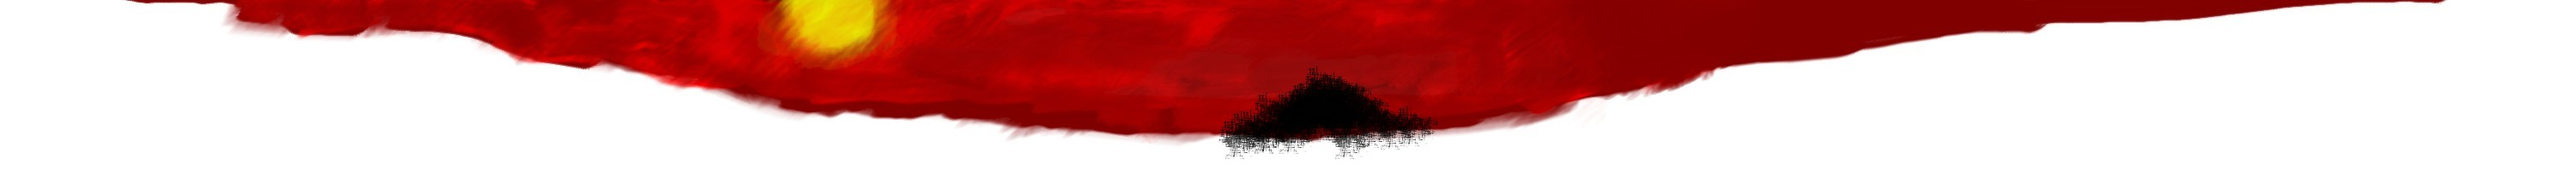
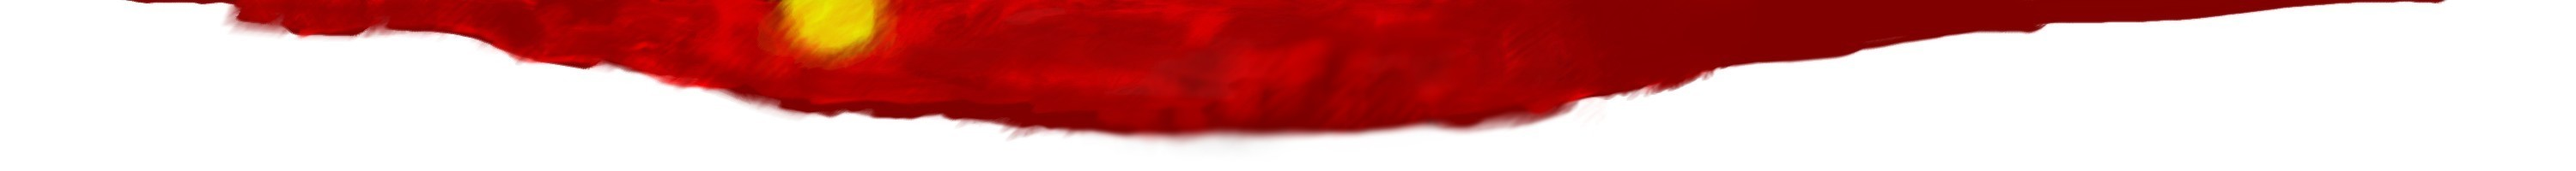
Changement fond

Changed region(s): [[0.403, 0.24, 0.589, 0.9]]

diff --git a/index.css b/index.css
@@ -60,7 +60,7 @@ nav
 	position: absolute;
 	top: 100px;
 	left: 200px;
-	background-image : url("image/fondNav.jpg");
+	background-image : url("image/fondNav.png");
 }
 
 nav.floatable
@@ -69,7 +69,7 @@ nav.floatable
 	top: 0px;
 	left: 50%;
 	margin-left : -250px;
-	background-image : url("image/fondNav.jpg");
+	background-image : url("image/fondNav.png");
 }
 
 nav h1
